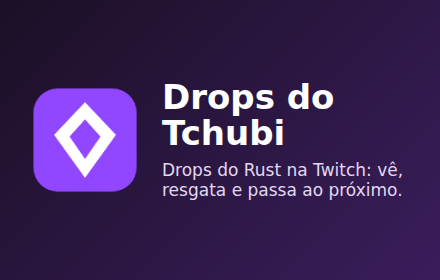
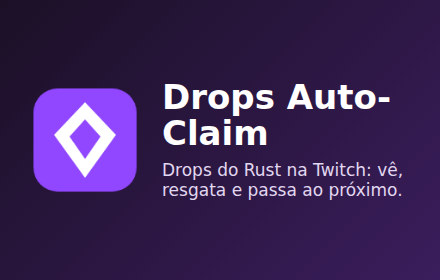
extensao: nome generico (Drops Auto-Claim), sem o nome do autor; v3.8
Claude-Session: https://claude.ai/code/session_014EyoRTrPQJMoBCQwdhWjVF

Changed region(s): [[0.3545, 0.4286, 0.65, 0.5429], [0.65, 0.2857, 0.8864, 0.4]]

diff --git a/fundo.js b/fundo.js
@@ -191,20 +191,12 @@ chrome.alarms.create('drops', { periodInMinutes: 2 });
 chrome.alarms.onAlarm.addListener(a => { if (a.name === 'drops' || a.name === 'resgate') passo(); });
 chrome.runtime.onStartup.addListener(passo);
 
-// menu do icone (botao direito): o canal do autor (se o config.json o tiver) e a pagina de ajuda
+// menu do icone (botao direito): a pagina de ajuda e privacidade
 const AJUDA = 'https://tchubirs.github.io/drops/';
 async function menu() {
-  const { config } = await chrome.storage.local.get('config');
-  const canal = (config && typeof config.canal === 'string' && /^https:\/\//.test(config.canal)) ? config.canal : '';
   await chrome.contextMenus.removeAll();
-  if (canal) chrome.contextMenus.create({ id: 'canal', title: 'Seguir o Tchubi (autor)', contexts: ['action'] });
   chrome.contextMenus.create({ id: 'ajuda', title: 'Como funciona e privacidade', contexts: ['action'] });
 }
-chrome.contextMenus.onClicked.addListener(async i => {
-  const { config } = await chrome.storage.local.get('config');
-  const url = i.menuItemId === 'canal' ? config && config.canal : AJUDA;
-  if (url) chrome.tabs.create({ url });
-});
+chrome.contextMenus.onClicked.addListener(i => { if (i.menuItemId === 'ajuda') chrome.tabs.create({ url: AJUDA }); });
 chrome.runtime.onInstalled.addListener(menu);
 chrome.runtime.onStartup.addListener(menu);
-chrome.storage.onChanged.addListener(m => { if (m.config) menu(); });

diff --git a/loja/LEIA-ME.md b/loja/LEIA-ME.md
@@ -6,14 +6,14 @@ Tudo o que a loja pede já está pronto. Tu só fazes os passos que exigem a tua
 
 1. Abre https://chrome.google.com/webstore/devconsole e entra com a tua conta Google.
 2. Paga a taxa única de registo de programador (o valor aparece no ecrã) e aceita o acordo.
-3. **New item** → carrega `drops-extensao-3.7.zip` (do repositório
+3. **New item** → carrega `drops-extensao-3.8.zip` (do repositório
    https://github.com/tchubirs/Drops-extension, pasta `loja/`).
 4. Preenche cada separador com os textos abaixo (copiar e colar).
 5. **Submit for review**. A Google revê e aprova ou recusa por e-mail. O prazo é decidido por eles.
 
 ## Separador "Store listing"
 
-- **Nome:** Drops do Tchubi (vem do manifest)
+- **Nome:** Drops Auto-Claim (vem do manifest)
 - **Categoria:** Entertainment
 - **Idioma:** Portuguese (Brazil)
 - **Descrição curta** (vem do manifest): Drops do Rust na Twitch sem esforco: ve o canal certo, resgata cada drop a 100% e passa ao proximo ate ter todos.
@@ -57,7 +57,7 @@ Não é uma extensão oficial da Twitch nem da Facepunch.
   - `cookies`: ler o cookie de login de twitch.tv do próprio utilizador para pedir à Twitch o progresso dos drops e resgatá-los em nome dele.
   - `scripting`: ler o progresso e o código de verificação que a própria página do inventário da Twitch gera, carregar no play se o vídeo parar e aceitar o aviso de conteúdo para maiores.
   - `notifications`: avisar quando um drop é resgatado e quando estão todos.
-  - `contextMenus`: menu do ícone com "Como funciona e privacidade" e o canal do autor.
+  - `contextMenus`: menu do ícone com "Como funciona e privacidade".
   - Acesso a `twitch.tv`, `gql.twitch.tv` e `id.twitch.tv`: são os sites dos drops, da API que dá o progresso e da sessão do utilizador.
   - Acesso a `raw.githubusercontent.com`: descarregar a cada 6 horas o ficheiro público `config.json` (só dados: os códigos das consultas da Twitch), para continuar a funcionar quando a Twitch os muda.
 
@@ -75,14 +75,13 @@ Não é uma extensão oficial da Twitch nem da Facepunch.
 - **Visibility:** Public
 - **Regiões:** todas
 
-## O link do teu canal no menu da extensão
-
-O menu do ícone (botão direito) mostra "Seguir o Tchubi (autor)" quando o `config.json`
-público tiver o campo `"canal"` com o teu link (ex.: `"canal": "https://..."`). Basta
-mudá-lo no GitHub: as extensões já instaladas apanham-no em até 6 horas, sem nova versão
-na loja.
-
 ## Riscos a saber
+
+- **O teu nome já não aparece na extensão, mas a ligação a ti continua visível.** O código
+  está em `github.com/tchubirs/...`, a página em `tchubirs.github.io` e a loja mostra o nome
+  e o e-mail da conta de programador. Quem procurar chega a ti. Como és parceiro da
+  Facepunch, decide antes de publicar: usar contas separadas (GitHub e Google) para a
+  extensão, ou não publicar e usá-la só tu.
 
 - Ver streams de forma automática pode ir contra as regras da Twitch. A Google também pode
   recusar a extensão por isso; se recusar, o e-mail diz a razão.

diff --git a/README.md b/README.md
@@ -1,4 +1,4 @@
-# Drops do Tchubi
+# Drops Auto-Claim
 
 Extensão do Chrome para os drops da Twitch (Rust). Tu clicas no ícone; ela faz o resto:
 vê o canal certo, resgata os drops a 100% e passa ao próximo até estarem todos.
@@ -14,7 +14,7 @@ vê o canal certo, resgata os drops a 100% e passa ao próximo até estarem todo
 ## Atualizar (sem reinstalar, sem perder nada)
 
 1. Descarrega o ZIP outra vez e **substitui** os ficheiros na mesma pasta.
-2. Em `chrome://extensions`, carrega no **↻** da "Drops do Tchubi".
+2. Em `chrome://extensions`, carrega no **↻** da "Drops Auto-Claim".
 
 Os códigos da Twitch e os tempos do resgate (`config.json`) atualizam-se sozinhos a
 cada 6 horas; só código novo precisa destes 2 passos.
@@ -27,5 +27,5 @@ cada 6 horas; só código novo precisa destes 2 passos.
 
 As consultas à Twitch e as regras de "este drop conta agora" vêm do TwitchDropsMiner
 (DevilXD, licença MIT), reescritas em JavaScript para correrem no Chrome.
-- `loja/` — tudo para a Chrome Web Store: o pacote `drops-extensao-3.7.zip`, as imagens e
+- `loja/` — tudo para a Chrome Web Store: o pacote `drops-extensao-3.8.zip`, as imagens e
   os textos a colar (`loja/LEIA-ME.md`). Página e privacidade: https://tchubirs.github.io/drops/
